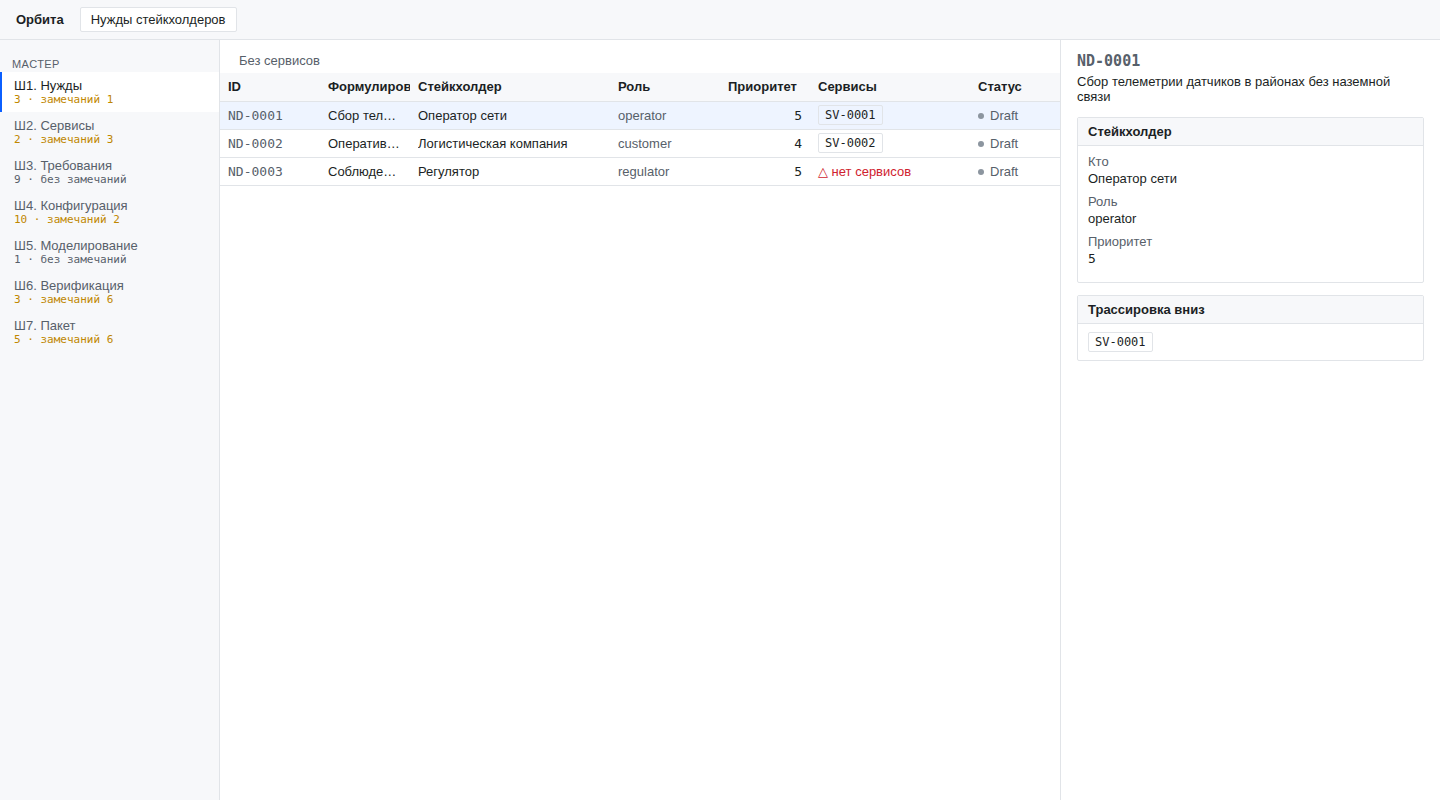
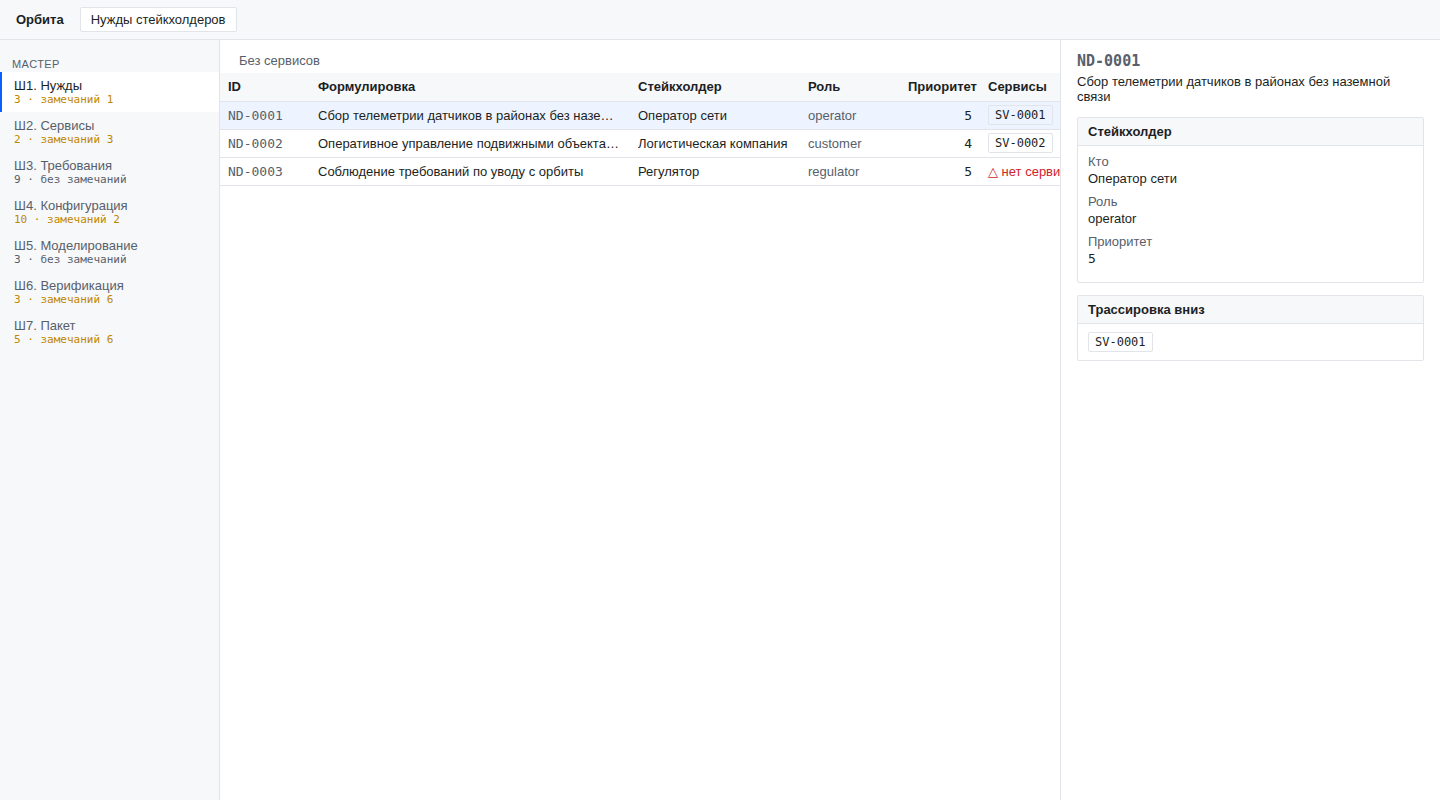
Нужды: формулировка перестала быть самой узкой колонкой
При table-layout: fixed колонка без заданной ширины получает лишь остаток
после всех остальных. Формулировке доставалось около 90 px — главное
содержимое строки срезалось первым, и экран становился бесполезен, хотя
ответ API был полон.

Ширина задана явно, соседние колонки ужаты. В сквозной проход добавлена
проверка ширины: по ответу API этого дефекта не видно, поэтому проверять
его должен браузер.

Changed region(s): [[0.2188, 0.0938, 0.75, 0.2188]]

diff --git a/web/src/screens/Needs.tsx b/web/src/screens/Needs.tsx
@@ -33,13 +33,16 @@ export function Needs() {
         </div>
         <table>
           <thead>
+            {/* Ширина формулировки задана явно и с запасом: при table-layout: fixed
+                колонка без ширины получает лишь остаток, и главное содержимое
+                строки — сама формулировка — оказывается срезано первым. */}
             <tr>
-              <th style={{ width: 100 }}>ID</th>
-              <th>Формулировка</th>
-              <th style={{ width: 200 }}>Стейкхолдер</th>
-              <th style={{ width: 110 }}>Роль</th>
-              <th style={{ width: 90 }}>Приоритет</th>
-              <th style={{ width: 160 }}>Сервисы</th>
+              <th style={{ width: 90 }}>ID</th>
+              <th style={{ width: 320 }}>Формулировка</th>
+              <th style={{ width: 170 }}>Стейкхолдер</th>
+              <th style={{ width: 100 }}>Роль</th>
+              <th style={{ width: 80 }}>Приоритет</th>
+              <th style={{ width: 150 }}>Сервисы</th>
               <th style={{ width: 90 }}>Статус</th>
             </tr>
           </thead>
